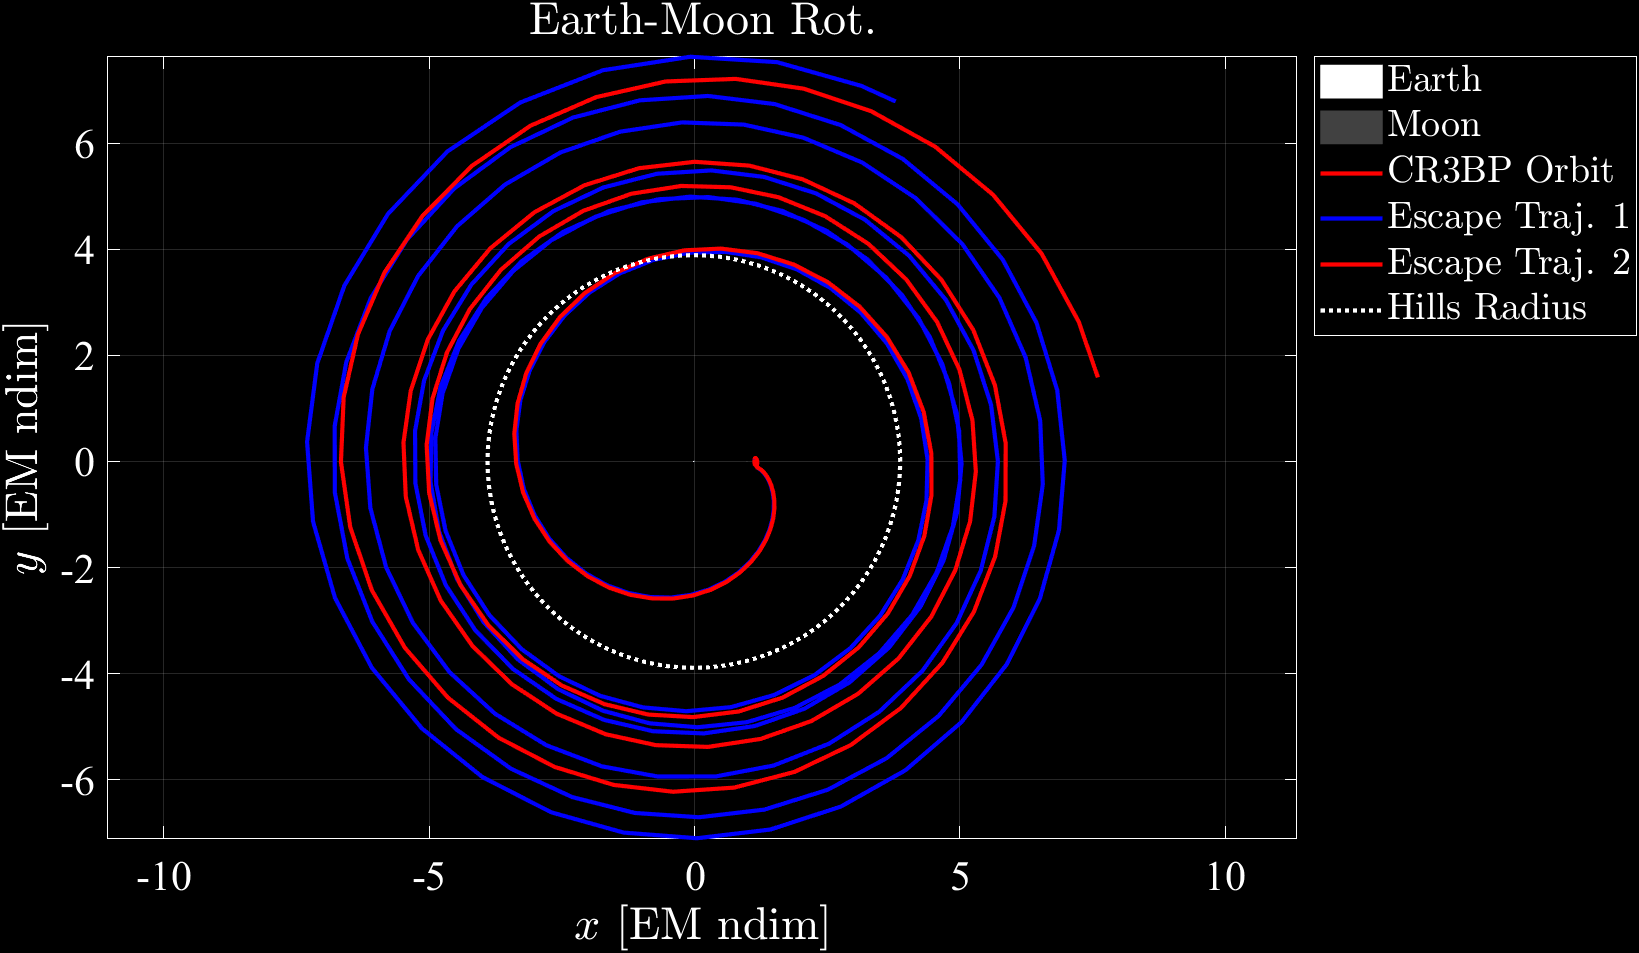
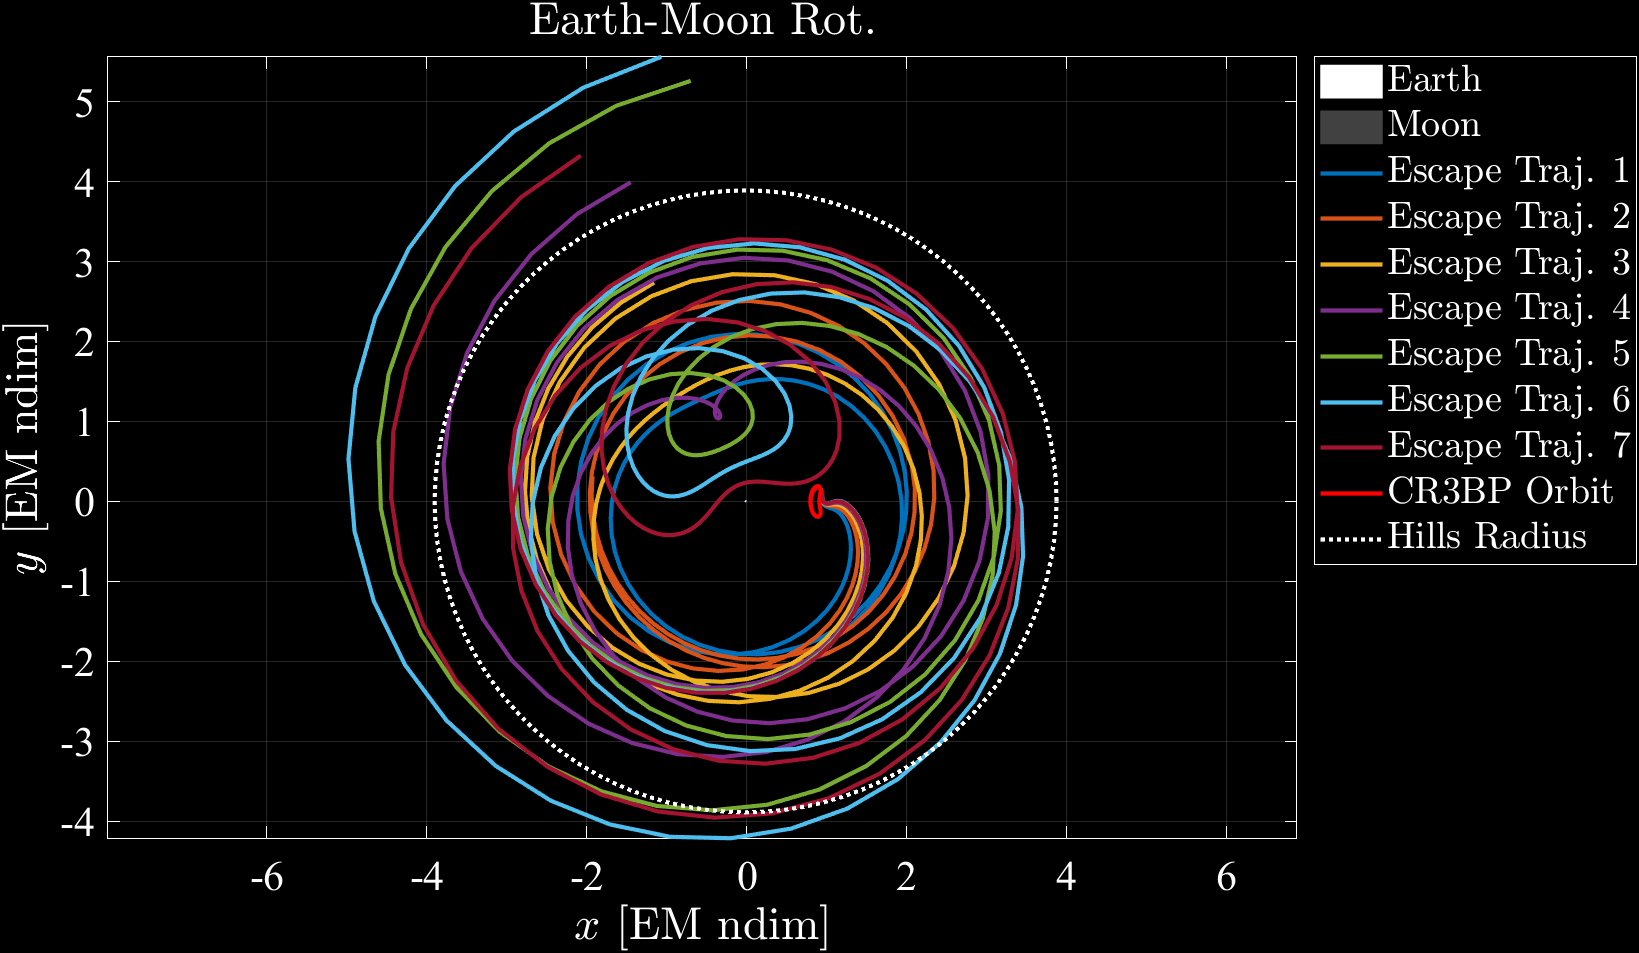
Making presentation

diff --git a/EscapeAnalysis.m b/EscapeAnalysis.m
@@ -9,7 +9,7 @@ load('../PhDScripts/Output/EscapeAnalysis.mat')
 %% Earth-Moon Data
 gmE = 3.9860043543609593E5; % Earth gravitational parameter [km^3/s^2]
 mE = gmE/6.67384E-20; % Earth mass [kg]
-RE = 6.3710083666666660E3; % Earth radius [km]
+RE = 6.371008366666666E3; % Earth radius [km]
 
 gmm = 4.9028000661637961E3; % Moon gravitational parameter [km^3/s^2]
 mm = gmm/6.67384E-20; % Moon mass [kg]
@@ -22,19 +22,32 @@ tstar = sqrt(lstar^3/(gmE+gmm)); % Characteristic time [s]
 
 RH = 1.496557260502363E6; % Hills radius [km]
 
-%% Trajectory Plot
+%% Sun-B1 Data
+gmS = 1.327124400419393E11; % Sun gravitational parameter [km^3/s^2]
+mS = gmS/6.67384E-20; % Sun mass [kg]
+RS = 6.96E5; % Sun radius [km]
+
+gmB1 = gmE+gmm; % B1 gravitational parameter [km^3/s^2]
+mB1 = gmB1/6.67384E-20; % B1 mass [kg]
+
+muSB1 = gmB1/(gmS+gmB1); % Mass ratio
+mstarSB1 = (gmS+gmB1)/6.67384E-20; % Characteristic mass [kg]
+lstarSB1 = 1.4959789401764473E8; % Characteristic length [km]
+tstarSB1 = sqrt(lstarSB1^3/(gmS+gmB1)); % Characteristic time [s]
+
+%% Earth-Moon Trajectory Plot
 fig1 = figure("Position", [200 100 1200 750]);
 hold on
 Earth = plot3DBody("Earth", RE/lstar, [-mu, 0, 0]);
 set(Earth, 'DisplayName', "Earth")
 Moon = plot3DBody("Moon", Rm/lstar, [1-mu, 0, 0]);
 set(Moon, 'DisplayName', "Moon")
+trajs = [Trajectory1, Trajectory2, Trajectory3, Trajectory4, Trajectory5, Trajectory6, Trajectory7];
+for j = 1:length(trajs)
+    plot3(trajs(j).x(1:end-100), trajs(j).y(1:end-100), trajs(j).z(1:end-100), 'DisplayName', "Escape Traj. "+num2str(j))
+end
 % plot3(BCR4BPManifold.orbit.x, BCR4BPManifold.orbit.y, BCR4BPManifold.orbit.z, 'b', 'DisplayName', "BCR4BP Orbit")
 plot3(CR3BPCompOrbit.x, CR3BPCompOrbit.y, CR3BPCompOrbit.z, 'r', 'DisplayName', "CR3BP Orbit")
-traj1 = Trajectory2;
-plot3(traj1.x, traj1.y, traj1.z, 'b', 'DisplayName', 'Escape Traj. 1')
-traj2 = Trajectory3;
-plot3(traj2.x, traj2.y, traj2.z, 'r', 'DisplayName', 'Escape Traj. 2')
 plot3(RH/lstar*cos(linspace(0, 2*pi, 101))-mu, RH/lstar*sin(linspace(0, 2*pi, 101)), zeros(1, 101), 'w:', 'DisplayName', "Hills Radius")
 axis equal
 grid on
@@ -50,28 +63,27 @@ hold off
 
 %% Osculating Orbital Elements
 fig2 = figure("Position", [200 100 1200 750]);
-% tiledlayout(2,1)
-tiledlayout(3,1)
-fig.TileSpacing = 'compact';
-fig.Padding = 'compact';
+t2 = tiledlayout(3,1);
+t2.TileSpacing = 'compact';
+t2.Padding = 'compact';
 ax1 = nexttile;
 hold on
 ps = gobjects(size(d, 1), 1);
 for j = 1:size(d, 1)
-    ps(j) = plot(d{j}, a_osc{j}, 'DisplayName', "$v_{E}="+num2str(v_esc(j))+"$");
+    ps(j) = plot(d{j}, a_osc_S{j}, 'DisplayName', "$v_{E}="+num2str(v_esc(j))+"$");
 end
-xline(RH, 'w:', 'LineWidth', 1)
+xline(RH, 'w:', 'LineWidth', 1, 'HandleVisibility', 'off')
 ylim(ax1, [1.3 1.7]*1E8)
 grid on
-ylabel("$a$ [km]", 'Interpreter', 'latex')
+ylabel("$a_{S}$ [km]", 'Interpreter', 'latex')
 title("Osculating Elements")
 hold off
 ax2 = nexttile;
 hold on
 for j = 1:size(d, 1)
-    plot(d{j}, e_osc_S{j})
+    plot(d{j}, e_osc_S{j}, 'HandleVisibility', 'off')
 end
-xline(RH, 'w:', 'LineWidth', 1)
+xline(RH, 'w:', 'LineWidth', 1, 'HandleVisibility', 'off')
 ylim(ax2, [0 0.2])
 grid on
 ylabel("$e_{S}$", 'Interpreter', 'latex')
@@ -79,18 +91,142 @@ hold off
 ax3 = nexttile;
 hold on
 for j = 1:size(d, 1)
-    plot(d{j}, e_osc_E{j})
+    plot(d{j}, e_osc_E{j}, 'HandleVisibility', 'off')
 end
-xline(RH, 'w:', 'LineWidth', 1)
-yline(1, 'w:')
-ylim(ax3, [0 2])
+xline(RH, 'w:', 'LineWidth', 1, 'HandleVisibility', 'off')
+yline(1, 'w:', 'LineWidth', 1, 'HandleVisibility', 'off')
+ylim(ax3, [0 10])
 grid on
 ylabel("$e_{E}$", 'Interpreter', 'latex')
 hold off
 xlabel("Earth Distance [km]", 'Interpreter', 'latex')
-% linkaxes([ax1, ax2], 'x')
 linkaxes([ax1, ax2, ax3], 'x')
 leg2 = legend(ps);
 leg2.Layout.Tile = 'east';
 leg2.Interpreter = 'latex';
 % exportgraphics(fig2, 'EscapeAnalysis_2.png', 'BackgroundColor', 'k')
+
+fig3 = figure("Position", [200 100 1200 750]);
+t3 = tiledlayout(3,1);
+t3.TileSpacing = 'compact';
+t3.Padding = 'compact';
+ax1 = nexttile;
+hold on
+ps = gobjects(size(t, 1), 1);
+for j = 1:size(t, 1)
+    ps(j) = plot(t{j}, a_osc_S{j}, 'DisplayName', "$v_{E}="+num2str(v_esc(j))+"$");
+end
+ylim(ax1, [1.3 1.7]*1E8)
+grid on
+ylabel("$a_{S}$ [km]", 'Interpreter', 'latex')
+title("Osculating Elements")
+hold off
+ax2 = nexttile;
+hold on
+for j = 1:size(t, 1)
+    plot(t{j}, e_osc_S{j}, 'HandleVisibility', 'off')
+end
+ylim(ax2, [0 0.2])
+grid on
+ylabel("$e_{S}$", 'Interpreter', 'latex')
+hold off
+ax3 = nexttile;
+hold on
+for j = 1:size(t, 1)
+    plot(t{j}, e_osc_E{j}, 'HandleVisibility', 'off')
+end
+yline(1, 'w:', 'LineWidth', 1, 'HandleVisibility', 'off')
+ylim(ax3, [0 10])
+grid on
+ylabel("$e_{E}$", 'Interpreter', 'latex')
+hold off
+xlabel("t [EM ndim]", 'Interpreter', 'latex')
+linkaxes([ax1, ax2, ax3], 'x')
+leg3 = legend(ps);
+leg3.Layout.Tile = 'east';
+leg3.Interpreter = 'latex';
+% exportgraphics(fig3, 'EscapeAnalysis_3.png', 'BackgroundColor', 'k')
+
+fig4 = figure("Position", [200 100 1200 750]);
+hold on
+for j = 1:size(d, 1)
+    plot(a_osc_E{j}, e_osc_E{j}, 'DisplayName', "$v_{E}="+num2str(v_esc(j))+"$")
+end
+axis([-1E8 1E8 0 2])
+grid on
+xlabel("$a_{E}$ [km]", 'Interpreter', 'latex')
+ylabel("$e_{E}$", 'Interpreter', 'latex')
+title("Earth-Moon Rot.", 'Interpreter', 'latex')
+leg4 = legend('Location', 'bestoutside', 'Interpreter', 'latex');
+set(gca, 'Color', 'k');
+hold off
+% exportgraphics(fig4, 'EscapeAnalysis_4.png', 'BackgroundColor', 'k')
+
+%% Sun-B1 Trajectory Plot
+fig5 = figure("Position", [200 100 1200 750]);
+hold on
+% Sun = plot3DBody("Sun", RS/lstarSB1, [-muSB1, 0, 0]);
+% set(Sun, 'DisplayName', "Sun")
+B1 = plot3DBody("Earth", RE/lstarSB1, [1-muSB1, 0, 0]);
+set(B1, 'DisplayName', "Earth")
+SB1Trajs = [SB1Trajectory1, SB1Trajectory2, SB1Trajectory3, SB1Trajectory4, SB1Trajectory5, SB1Trajectory6, SB1Trajectory7];
+for j = 1:length(SB1Trajs)
+    plot3(SB1Trajs(j).x(1:end-10), SB1Trajs(j).y(1:end-10), SB1Trajs(j).z(1:end-10), 'DisplayName', "Escape Traj. "+num2str(j))
+end
+plot3(RH/lstarSB1*cos(linspace(0, 2*pi, 101))+1-muSB1, RH/lstarSB1*sin(linspace(0, 2*pi, 101)), zeros(1, 101), 'w:', 'DisplayName', "Hills Radius")
+axis equal
+grid on
+xlabel("$x$ [S$B_{1}$ ndim]", 'Interpreter', 'latex')
+ylabel("$y$ [S$B_{1}$ ndim]", 'Interpreter', 'latex')
+zlabel("$z$ [S$B_{1}$ ndim]", 'Interpreter', 'latex')
+title("Sun-$B_{1}$ Rot.", 'Interpreter', 'latex')
+leg1 = legend('Location', 'bestoutside', 'Interpreter', 'latex');
+set(gca, 'Color', 'k');
+view(2)
+hold off
+% exportgraphics(fig5, 'EscapeAnalysis_5.png', 'BackgroundColor', 'k')
+
+%% Sun-B1 Hamiltonian
+fig6 = figure("Position", [200 100 1200 750]);
+t6 = tiledlayout(2,1);
+t6.TileSpacing = 'compact';
+t6.Padding = 'compact';
+ax1 = nexttile;
+hold on
+colors = ax1.ColorOrder;
+nColors = size(colors, 1);
+for j = 1:size(t, 1)
+    change = [1; find(diff(quad_SB1{j}) ~= 0)+1; length(quad_SB1{j})];
+    color = colors(mod(j-1, nColors)+1,:);
+    for k = 1:numel(change)-1
+        range = change(k):change(k+1);
+        quad = quad_SB1{j}(range(1));
+        if (quad == 1) || (quad == 3)
+            plot(t{j}(range), H_SB1{j}(range), 'Color', color, 'HandleVisibility', 'off')
+        else
+            plot(t{j}(range), H_SB1{j}(range), 'LineStyle', '--', 'Color', color, 'HandleVisibility', 'off')
+        end
+    end
+end
+yline(H_E1, 'w:', 'LineWidth', 1, 'HandleVisibility', 'off')
+grid on
+ylabel("$H_{SB_{1}}$ [S$B_{1}$ ndim]", 'Interpreter', 'latex')
+title("Sun-$B_{1}$ Hamiltonian", 'Interpreter', 'latex')
+hold off
+ax2 = nexttile;
+hold on
+ps = gobjects(size(t, 1), 1);
+for j = 1:size(t, 1)
+    ps(j) = plot(t{j}, e_osc_E{j}, 'DisplayName', "$v_{E}="+num2str(v_esc(j))+"$");
+end
+yline(1, 'w:', 'LineWidth', 1, 'HandleVisibility', 'off')
+ylim(ax2, [0 10])
+grid on
+ylabel("$e_{E}$", 'Interpreter', 'latex')
+hold off
+xlabel("t [EM ndim]", 'Interpreter', 'latex')
+linkaxes([ax1, ax2], 'x')
+leg6 = legend(ps);
+leg6.Layout.Tile = 'east';
+leg6.Interpreter = 'latex';
+% exportgraphics(fig6, 'EscapeAnalysis_6.png', 'BackgroundColor', 'k')
